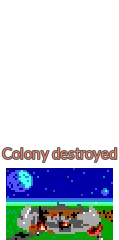
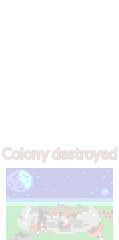
Hold the mine scene's white a second; cut the colony scene to match its length
Claude-Session: https://claude.ai/code/session_015LkGETYwFWm6m9tua6nedV

diff --git a/tools/make_planet_anims.py b/tools/make_planet_anims.py
@@ -5,7 +5,7 @@ scene itself: the picture box in the status panel is cropped out (a 107x72
 picture is left), and only the scene's recording frames START..END are
 kept, at 15 fps, then the last picture fades out over a few frames.
   colony-destroyed  the domes on a life world blown apart and left burning,
-                    up to just before the panel switches back to the menu
+                    cut to about as long as mine-destroyed with its hold
   mine-destroyed    the mining vehicle on a mineral world, the blast, and
                     the screen whiting out, up to the moment it is all white
   syreen-capture    the captain watching her ship fill up with the planet's
@@ -44,7 +44,7 @@ HEX = 84                       # picture centre this far above / below the plane
 CROP = (523, 302, 630, 374)    # left, top, right, bottom: inside the box's grey rim
 # recording frames kept (1-based, inclusive): START, END
 SCENES = {
-    "colony-destroyed": (5, 212),
+    "colony-destroyed": (5, 170),
     "mine-destroyed": (54, 188),
     "syreen-capture": (139, 344),
     "artifact": (3, 207),
